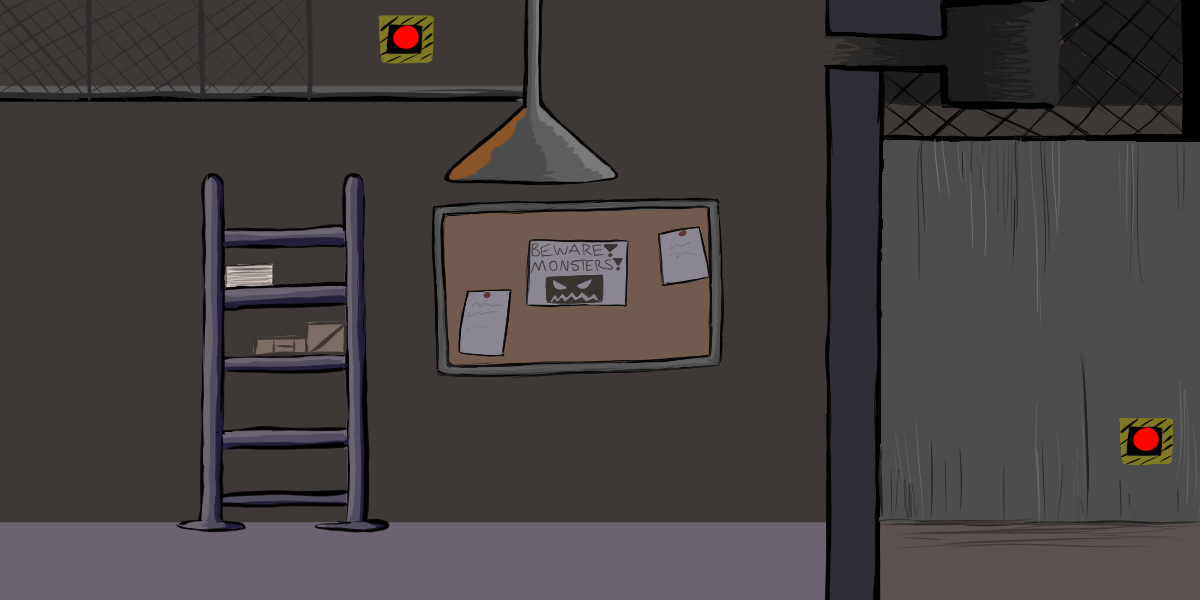
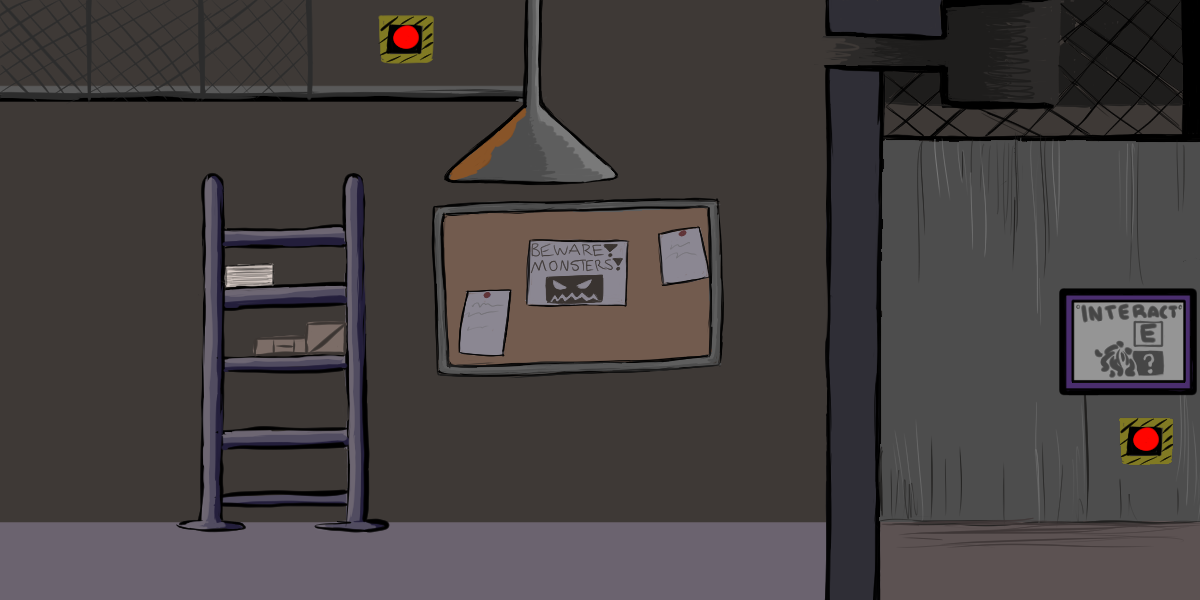
edited assets and animations

Changed region(s): [[0.8633, 0.48, 1.0, 0.66]]

diff --git a/src/Stage/Stage_2.js b/src/Stage/Stage_2.js
@@ -6,21 +6,19 @@ class Stage_2 extends Phaser.Scene{
 
     preload(){
         this.load.image('back','./assets/tutorial_bg.png');
-        this.load.image('plat','./assets/platform.png');
-        this.load.image('platY','./assets/platformY.png');
         this.load.image('switch','./assets/switch.jpg');
-        this.load.image('rock','./assets/rock.png');
         this.load.image('monsterA','./assets/monsterA_idle.png');
-        this.load.image('tutorial_bg', './assets/tutorial_bg.png');
+        this.load.image('stage1Bg', './assets/backgrounds1.png');
         this.load.image('box_fragile', './assets/box_fragile.png');
         this.load.image('platform', './assets/wood_platform.png');
         this.load.image('crab', './assets/Crab.png');
         this.load.image('platformY', './assets/wood_platformY.png');
         this.load.image('box', './assets/box.png');
         this.load.image('human','./assets/olman.png');
-        this.load.image('stage_2','./assets/stage_2');
+        this.load.image('stage_2','./assets/stage_2.jpg');
         this.load.atlas('crab_atlas', './assets/crabbertsheet.png', './assets/crabmap.json');
         this.load.atlas('tenti_atlas', './assets/tentisheet.png', './assets/tentimap.json');
+        this.load.atlas('human_atlas', './assets/humansheet.png', './assets/humanmap.json');
 
         this.load.audio('switch','./assets/audio/switch.wav');
     }
@@ -34,7 +32,7 @@ class Stage_2 extends Phaser.Scene{
             let bg = this.add.image(game.config.width/2, game.config.height/2,"back");
     
             // init ground and platform
-            this.tutorial_bg = this.add.tileSprite(0, 0, 1200, 650, 'tutorial_bg').setOrigin(0, 0);
+            this.tutorial_bg = this.add.tileSprite(0, 0, 1200, 650, 'stage1Bg').setOrigin(0, 0);
 
             this.ground = this.physics.add.sprite(game.config.width/2,game.config.height - 10,'platform');
             this.ground.displayWidth = 1200;
@@ -149,11 +147,28 @@ class Stage_2 extends Phaser.Scene{
             this.sight.body.allowGravity = false;
 
             // setting human
-            this.human = this.physics.add.sprite(game.config.width - 240, game.config.height - 80, 'human').setScale(0.3);
+            this.human = this.physics.add.sprite(game.config.width - 240, game.config.height - 120, 'human').setScale(1);
             this.physics.add.collider(this.human,this.player1);
             this.physics.add.collider(this.human,this.player2);
             this.human.setImmovable(true);
             this.human.body.allowGravity = false;
+
+            // human sweep left
+            this.anims.create({
+                key: 'man_sweep_left',
+                frames: this.anims.generateFrameNames('human_atlas', {
+                    prefix: 'man_sweep_left_',
+                    start: 1,
+                    end: 3,
+                    suffix: '',
+                    zeroPad: 4
+                }),
+                frameRate: 10,
+                repeat: -1,
+                repeatDelay: 300,
+                yoyo: true
+            });
+            this.human.anims.play('man_sweep_left', true);
 
             // setting lunch box, need to replace the texture later
             this.lunch = this.physics.add.sprite(game.config.width - 290, game.config.height -400, 'box').setScale(0.8);

diff --git a/src/Stage/Tutorial.js b/src/Stage/Tutorial.js
@@ -17,6 +17,7 @@ class Tutorial extends Phaser.Scene{
         this.load.atlas('crab_atlas', './assets/crabbertsheet.png', './assets/crabmap.json');
         this.load.atlas('tenti_atlas', './assets/tentisheet.png', './assets/tentimap.json');
         this.load.image('crabJump', './assets/CrabJump.png');
+        this.load.image('hatch', './assets/hatch.png');
 
         this.load.audio('switch','./assets/audio/switch.wav');
         this.load.audio('jump', './assets/audio/jump.wav');
@@ -54,7 +55,7 @@ class Tutorial extends Phaser.Scene{
         this.wall.setImmovable(true);
         this.wall.setFrictionX(0);
 
-        this.hatch = this.physics.add.sprite(game.config.width - 280, game.config.height/2 + 10, 'platform');
+        this.hatch = this.physics.add.sprite(game.config.width - 280, game.config.height/2 + 10, 'hatch');
         this.hatch.displayWidth = 140;
         this.hatch.body.allowGravity = false;
         this.hatch.setImmovable(true);

diff --git a/src/Stage/Stage_1.js b/src/Stage/Stage_1.js
@@ -5,7 +5,7 @@ class Stage_1 extends Phaser.Scene{
 
     preload(){
         this.load.image('stage1','./assets/backgrounds1.png');
-        this.load.image('man','./assets/olman.png');
+        this.load.image('man','./assets/human.png');
         this.load.image('plat','./assets/ladder.png');
         this.load.image('platup','./assets/platup.png');
         this.load.image('platform', './assets/wood_platform.png');
@@ -110,8 +110,8 @@ class Stage_1 extends Phaser.Scene{
         this.highwall.setFrictionX(0);
 
         this.man = this.physics.add.sprite(game.config.width/3 + 160, game.config.height - 150, 'man');
-        this.man.displayWidth = 180;
-        this.man.displayHeight = 280;
+        //this.man.displayWidth = 180;
+        //this.man.displayHeight = 280;
         this.man.body.allowGravity = false;
         this.physics.add.collider(this.ground, this.man);
 
